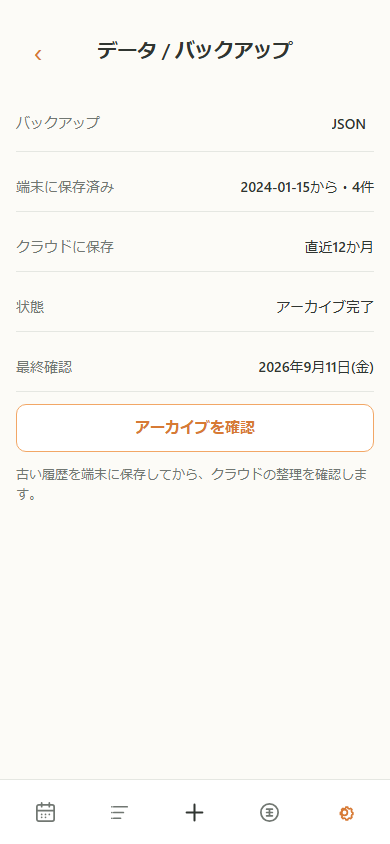
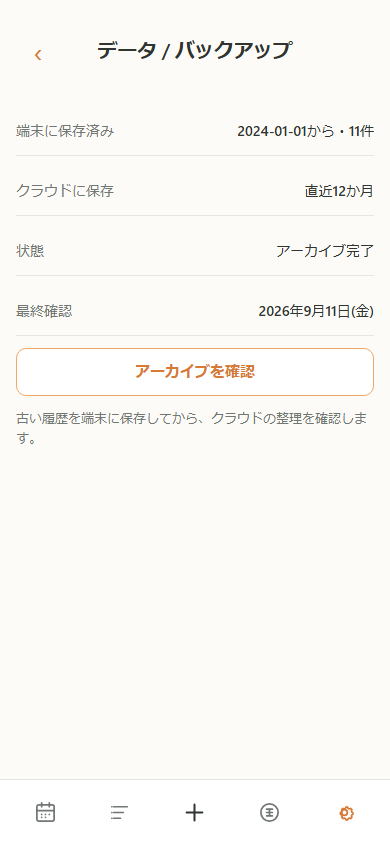
fix: constrain archive projection authority

diff --git a/src/lib/archive-projection.ts b/src/lib/archive-projection.ts
@@ -6,29 +6,54 @@ import type { ArchiveRecord } from "./archive";
 
 const recordsOf = <T>(rows: ArchiveRecord[], type: ArchiveRecord["type"]) => rows.filter((row) => row.type === type).map((row) => row.record as T);
 const dateShift = (value: string, amount: number) => { const date = new Date(`${value}T00:00:00Z`); date.setUTCDate(date.getUTCDate() + amount); return date.toISOString().slice(0, 10); };
+const archiveBatchGroups = (rows: ArchiveRecord[]) => {
+  const groups = new Map<string, { rows: ArchiveRecord[]; retentionBoundary: string }>();
+  for (const row of rows) {
+    if (!row.archiveBatchId || !row.retentionBoundary) continue;
+    const group = groups.get(row.archiveBatchId) ?? { rows: [], retentionBoundary: row.retentionBoundary };
+    group.rows.push(row);
+    groups.set(row.archiveBatchId, group);
+  }
+  return [...groups.values()].sort((left, right) => left.retentionBoundary.localeCompare(right.retentionBoundary));
+};
+const archiveRangeForBatch = (range: DateRange, retentionBoundary: string): DateRange | null => {
+  const endDate = dateShift(retentionBoundary, -1);
+  if (range.startDate > endDate) return null;
+  return { startDate: range.startDate, endDate: range.endDate < endDate ? range.endDate : endDate };
+};
+const eventIdentity = (event: { id: string; occurrenceKey?: string | null; startDate?: string | null; periodStartDate?: string | null }) => `${event.id}:${event.occurrenceKey ?? "single"}:${event.startDate ?? event.periodStartDate ?? ""}`;
+const moneyIdentity = (item: { id: string; occurrenceKey?: string | null; date: string }) => `${item.id}:${item.occurrenceKey ?? item.date}`;
 
 export const archiveEventsForRange = (rows: ArchiveRecord[], userId: string, range: DateRange, weekStartsOn: number): ProjectedEvent[] => {
-  const events = recordsOf<Event>(rows, "event").filter((event) => event.userId === userId && event.active && !event.deletedAt);
-  const rules = new Map(recordsOf<RecurrenceRule>(rows, "recurrence_rule").filter((rule) => rule.userId === userId).map((rule) => [rule.id, rule]));
-  const overrides = recordsOf<EventOccurrenceOverride>(rows, "event_override").filter((override) => override.userId === userId);
-  return projectDefinitions(events.map((event) => ({ event, rule: event.recurrenceRuleId ? (rules.get(event.recurrenceRuleId) ?? null) : null, overrides: overrides.filter((override) => override.eventId === event.id) })), range, weekStartsOn).sort((left, right) => `${left.startDate ?? "9999-12-31"}T${left.startTime ?? left.deadlineTime ?? "00:00"}:${left.id}:${left.occurrenceKey ?? ""}`.localeCompare(`${right.startDate ?? "9999-12-31"}T${right.startTime ?? right.deadlineTime ?? "00:00"}:${right.id}:${right.occurrenceKey ?? ""}`));
+  return archiveBatchGroups(rows).flatMap((batch) => {
+    const batchRange = archiveRangeForBatch(range, batch.retentionBoundary);
+    if (!batchRange) return [];
+    const events = recordsOf<Event>(batch.rows, "event").filter((event) => event.userId === userId && event.active && !event.deletedAt);
+    const rules = new Map(recordsOf<RecurrenceRule>(batch.rows, "recurrence_rule").filter((rule) => rule.userId === userId).map((rule) => [rule.id, rule]));
+    const overrides = recordsOf<EventOccurrenceOverride>(batch.rows, "event_override").filter((override) => override.userId === userId);
+    return projectDefinitions(events.map((event) => ({ event, rule: event.recurrenceRuleId ? (rules.get(event.recurrenceRuleId) ?? null) : null, overrides: overrides.filter((override) => override.eventId === event.id) })), batchRange, weekStartsOn);
+  }).sort((left, right) => `${left.startDate ?? "9999-12-31"}T${left.startTime ?? left.deadlineTime ?? "00:00"}:${left.id}:${left.occurrenceKey ?? ""}`.localeCompare(`${right.startDate ?? "9999-12-31"}T${right.startTime ?? right.deadlineTime ?? "00:00"}:${right.id}:${right.occurrenceKey ?? ""}`));
 };
 
-export const archiveDailyNoteForDate = (rows: ArchiveRecord[], userId: string, date: string): DailyNote | null => recordsOf<DailyNote>(rows, "daily_note").find((note) => note.userId === userId && note.date === date) ?? null;
+export const archiveDailyNoteForDate = (rows: ArchiveRecord[], userId: string, date: string): DailyNote | null => archiveBatchGroups(rows).flatMap((batch) => recordsOf<DailyNote>(batch.rows, "daily_note").filter((note) => note.userId === userId && note.date === date && note.date < batch.retentionBoundary)).at(-1) ?? null;
 
 export const archiveMoneyForRange = (rows: ArchiveRecord[], userId: string, range: DateRange, weekStartsOn: number): MoneyOccurrence[] => {
-  const items = recordsOf<MoneyItem>(rows, "money_item").filter((item) => item.userId === userId && item.active && !item.deletedAt);
-  const rules = new Map(recordsOf<RecurrenceRule>(rows, "recurrence_rule").filter((rule) => rule.userId === userId).map((rule) => [rule.id, rule]));
-  const overrides = recordsOf<MoneyOccurrenceOverride>(rows, "money_override").filter((override) => override.userId === userId);
-  const settlements = recordsOf<MoneyOccurrenceSettlement>(rows, "money_settlement").filter((settlement) => settlement.userId === userId);
-  const categories = recordsOf<MoneyCategory>(rows, "money_category").filter((category) => category.userId === userId);
-  return projectMoneyItems(items.map((item) => ({ item, rule: item.recurrenceRuleId ? (rules.get(item.recurrenceRuleId) ?? null) : null, overrides: overrides.filter((override) => override.moneyItemId === item.id) })), categories, range.startDate, range.endDate, weekStartsOn, overrides, settlements, "9999-12");
+  return archiveBatchGroups(rows).flatMap((batch) => {
+    const batchRange = archiveRangeForBatch(range, batch.retentionBoundary);
+    if (!batchRange) return [];
+    const items = recordsOf<MoneyItem>(batch.rows, "money_item").filter((item) => item.userId === userId && item.active && !item.deletedAt);
+    const rules = new Map(recordsOf<RecurrenceRule>(batch.rows, "recurrence_rule").filter((rule) => rule.userId === userId).map((rule) => [rule.id, rule]));
+    const overrides = recordsOf<MoneyOccurrenceOverride>(batch.rows, "money_override").filter((override) => override.userId === userId);
+    const settlements = recordsOf<MoneyOccurrenceSettlement>(batch.rows, "money_settlement").filter((settlement) => settlement.userId === userId);
+    const categories = recordsOf<MoneyCategory>(batch.rows, "money_category").filter((category) => category.userId === userId);
+    return projectMoneyItems(items.map((item) => ({ item, rule: item.recurrenceRuleId ? (rules.get(item.recurrenceRuleId) ?? null) : null, overrides: overrides.filter((override) => override.moneyItemId === item.id) })), categories, batchRange.startDate, batchRange.endDate, weekStartsOn, overrides, settlements, "9999-12");
+  }).sort((left, right) => `${left.date}:${left.id}:${left.occurrenceKey}`.localeCompare(`${right.date}:${right.id}:${right.occurrenceKey}`));
 };
 
 export const mergeProjectedEvents = (serverEvents: ApiEvent[], archivedEvents: ProjectedEvent[]): ApiEvent[] => {
   const result = new Map<string, ApiEvent>();
-  archivedEvents.forEach((event) => result.set(`${event.occurrenceKey ?? event.id}:${event.startDate ?? event.periodStartDate ?? ""}`, event));
-  serverEvents.forEach((event) => { const key = `${event.occurrenceKey ?? event.id}:${event.startDate ?? event.periodStartDate ?? ""}`; if (!result.has(key)) result.set(key, event); });
+  archivedEvents.forEach((event) => result.set(eventIdentity(event), event));
+  serverEvents.forEach((event) => result.set(eventIdentity(event), event));
   return [...result.values()];
 };
 
@@ -39,23 +64,26 @@ const projectionSummary = (occurrences: MoneyOccurrence[]) => {
 
 export const mergeMoneyProjections = (server: ApiMoneyProjection, archived: MoneyOccurrence[]): ApiMoneyProjection => {
   const byKey = new Map<string, MoneyOccurrence>();
-  archived.forEach((item) => byKey.set(item.occurrenceKey ?? `${item.id}:${item.date}`, item));
-  server.occurrences.forEach((item) => { const key = item.occurrenceKey ?? `${item.id}:${item.date}`; if (!byKey.has(key)) byKey.set(key, item as MoneyOccurrence); });
+  archived.forEach((item) => byKey.set(moneyIdentity(item), item));
+  server.occurrences.forEach((item) => byKey.set(moneyIdentity(item), item as MoneyOccurrence));
   const occurrences = [...byKey.values()].sort((left, right) => `${left.date}:${left.id}:${left.occurrenceKey ?? ""}`.localeCompare(`${right.date}:${right.id}:${right.occurrenceKey ?? ""}`));
   const days = [...new Set(occurrences.map((item) => item.date))].sort().map((date) => ({ date, ...projectionSummary(occurrences.filter((item) => item.date === date)) }));
   return { occurrences: occurrences as ApiMoneyProjection["occurrences"], summary: projectionSummary(occurrences), days };
 };
 
 export const archiveSearchEvents = (rows: ArchiveRecord[], userId: string, query: string, weekStartsOn: number, limit = 50) => {
-  const eventRows = rows.filter((row) => row.type === "event");
-  const dates = eventRows.map((row) => row.recordDate).filter((date): date is string => Boolean(date)).sort();
-  if (dates.length === 0) return [];
-  const range = { startDate: dates[0], endDate: dateShift(dates.at(-1) as string, 1825) };
   const normalized = query.trim().toLocaleLowerCase();
-  return archiveEventsForRange(rows, userId, range, weekStartsOn).flatMap((event) => {
+  const archiveResults = archiveBatchGroups(rows).flatMap((batch) => {
+    const dates = batch.rows.map((row) => row.recordDate).filter((date): date is string => Boolean(date)).sort();
+    if (dates.length === 0) return [];
+    const range = { startDate: dates[0], endDate: dateShift(batch.retentionBoundary, -1) };
+    return archiveEventsForRange(batch.rows, userId, range, weekStartsOn).flatMap((event) => {
     const fields = (["title", "place", "memo"] as const).filter((field) => Boolean(event[field]?.toLocaleLowerCase().includes(normalized)));
     if (fields.length === 0) return [];
     const occurrenceDate = event.timingType === "period" ? event.periodStartDate ?? event.startDate ?? dates[0] : event.startDate ?? dates[0];
     return [{ ...event, source: "archive" as const, eventId: event.id, occurrenceDate, matchContext: { fields, text: fields.find((field) => field !== "title") ? event[fields.find((field) => field !== "title") as "place" | "memo"] ?? undefined : undefined } }];
-  }).sort((left, right) => `${left.occurrenceDate}:${left.id}:${left.occurrenceKey ?? ""}`.localeCompare(`${right.occurrenceDate}:${right.id}:${right.occurrenceKey ?? ""}`)).slice(0, limit);
+    });
+  });
+  const deduped = new Map<string, (typeof archiveResults)[number]>(archiveResults.map((event) => [eventIdentity(event), event]));
+  return [...deduped.values()].sort((left, right) => `${left.occurrenceDate}:${left.id}:${left.occurrenceKey ?? ""}`.localeCompare(`${right.occurrenceDate}:${right.id}:${right.occurrenceKey ?? ""}`)).slice(0, limit);
 };

diff --git a/e2e/m12-local-archive.spec.ts b/e2e/m12-local-archive.spec.ts
@@ -3,6 +3,8 @@ import { expect, test } from "@playwright/test";
 test.use({ viewport: { width: 390, height: 844 } });
 
 const unique = () => `m12-${Date.now()}-${Math.random().toString(36).slice(2)}`;
+const monthKey = (date = new Date()) => date.toISOString().slice(0, 7);
+const nextMonthKey = (month: string) => { const date = new Date(`${month}-01T00:00:00Z`); date.setUTCMonth(date.getUTCMonth() + 1); return date.toISOString().slice(0, 7); };
 
 test("M12 archives old history locally before removing only eligible D1 records", async ({ page }) => {
   const email = `${unique()}@example.com`;
@@ -16,9 +18,21 @@ test("M12 archives old history locally before removing only eligible D1 records"
   const ended = await page.request.post("/api/events", { data: { category: "work", title: "M12 終了系列", timingType: "scheduled", allDay: true, startDate: "2024-02-01", startTime: null, endDate: "2024-02-01", endTime: null, recurrence: { frequency: "monthly", interval: 1, weekdays: null, dayOfMonth: 1, startsOn: "2024-02-01", endsOn: "2024-03-01" }, notifications: [] } });
   expect(ended.ok()).toBeTruthy();
   const endedPayload = await ended.json() as { event: { id: string; recurrenceRuleId: string } };
-  const active = await page.request.post("/api/events", { data: { category: "home", title: "M12 継続家賃", timingType: "scheduled", allDay: true, startDate: "2024-01-01", startTime: null, endDate: "2024-01-01", endTime: null, recurrence: { frequency: "monthly", interval: 1, weekdays: null, dayOfMonth: 1, startsOn: "2024-01-01", endsOn: null }, notifications: [] } });
+  const active = await page.request.post("/api/events", { data: { category: "home", title: "M12 旧週次レビュー", timingType: "scheduled", allDay: false, startDate: "2024-01-01", startTime: "10:00", endDate: "2024-01-01", endTime: "10:00", recurrence: { frequency: "monthly", interval: 1, weekdays: null, dayOfMonth: 1, startsOn: "2024-01-01", endsOn: null }, notifications: [] } });
   expect(active.ok()).toBeTruthy();
   const activePayload = await active.json() as { event: { id: string; recurrenceRuleId: string } };
+  const activeOccurrenceKey = `event:${activePayload.event.id}:2024-01-01T10:00`;
+  const activeOverride = await page.request.patch(`/api/events/${activePayload.event.id}`, { data: { scope: "occurrence", occurrenceKey: activeOccurrenceKey, startTime: "10:00", endTime: "10:00" } });
+  expect(activeOverride.ok()).toBeTruthy();
+  const categories = await page.request.get("/api/money-categories?type=expense");
+  expect(categories.ok()).toBeTruthy();
+  const expenseCategory = (await categories.json() as { categories: Array<{ id: string }> }).categories[0];
+  const activeMoney = await page.request.post("/api/money", { data: { type: "expense", title: "M12 旧家賃", plannedAmount: 70000, categoryId: expenseCategory.id, date: "2024-01-01", memo: null, recurrence: { frequency: "monthly", interval: 1, weekdays: null, dayOfMonth: 1, startsOn: "2024-01-01", endsOn: null } } });
+  expect(activeMoney.ok()).toBeTruthy();
+  const activeMoneyPayload = await activeMoney.json() as { money: { id: string } };
+  const oldMoneyOccurrenceKey = `money:${activeMoneyPayload.money.id}:2024-01-01`;
+  const oldSettlement = await page.request.put(`/api/money/${activeMoneyPayload.money.id}/occurrences/${oldMoneyOccurrenceKey}/actual`, { data: { amount: 65000 } });
+  expect(oldSettlement.ok()).toBeTruthy();
   const note = await page.request.put("/api/daily-notes/2024-01-15", { data: { content: "M12 端末へ退避する日メモ" } });
   expect(note.ok()).toBeTruthy();
 
@@ -27,7 +41,7 @@ test("M12 archives old history locally before removing only eligible D1 records"
   const candidate = await candidates.json() as { archiveBatchId: string; retentionBoundary: string; records: { events: Array<{ id: string }>; dailyNotes: Array<{ date: string }> }; manifest: { records: Array<{ type: string; id: string }> }; checksum: string };
   expect(candidate.retentionBoundary).toMatch(/^\d{4}-\d{2}-\d{2}$/);
   expect(candidate.records.events.map((event) => event.id)).toEqual(expect.arrayContaining([singlePayload.event.id, endedPayload.event.id]));
-  expect(candidate.records.events.map((event) => event.id)).not.toContain(activePayload.event.id);
+  expect(candidate.records.events.map((event) => event.id)).toContain(activePayload.event.id);
   expect(candidate.records.dailyNotes.map((item) => item.date)).toContain("2024-01-15");
   expect(candidate.manifest.records).toEqual(expect.arrayContaining([{ type: "event", id: singlePayload.event.id }, { type: "event", id: endedPayload.event.id }]));
   expect(candidate.manifest.records).not.toContainEqual({ type: "event", id: activePayload.event.id });
@@ -49,10 +63,23 @@ test("M12 archives old history locally before removing only eligible D1 records"
   expect((await page.request.get(`/api/events/${singlePayload.event.id}`)).status()).toBe(404);
   expect((await page.request.get(`/api/events/${endedPayload.event.id}`)).status()).toBe(404);
   expect((await page.request.get(`/api/events/${activePayload.event.id}`)).ok()).toBeTruthy();
+  const updatedEvent = await page.request.patch(`/api/events/${activePayload.event.id}`, { data: { scope: "series", title: "M12 新週次レビュー", startTime: "11:00", endTime: "11:00" } });
+  expect(updatedEvent.ok()).toBeTruthy();
+  const updatedMoney = await page.request.patch(`/api/money/${activeMoneyPayload.money.id}`, { data: { scope: "series", title: "M12 新家賃", plannedAmount: 80000, date: "2024-01-01", memo: null, categoryId: expenseCategory.id, recurrence: { frequency: "monthly", interval: 1, weekdays: null, dayOfMonth: 1, startsOn: "2024-01-01", endsOn: null } } });
+  expect(updatedMoney.ok()).toBeTruthy();
+  const currentMonth = monthKey();
+  const futureMonth = nextMonthKey(currentMonth);
+  for (const month of [currentMonth, futureMonth]) {
+    const calendarResponse = await page.request.get(`/api/calendar?month=${month}`);
+    expect(calendarResponse.ok()).toBeTruthy();
+    const calendar = await calendarResponse.json() as { events: Array<{ id: string; title: string; startTime: string | null }>; money: { occurrences: Array<{ id: string; plannedAmount: number }> } };
+    expect(calendar.events.find((entry) => entry.id === activePayload.event.id)).toMatchObject({ title: "M12 新週次レビュー", startTime: "11:00" });
+    expect(calendar.money.occurrences.find((entry) => entry.id === activeMoneyPayload.money.id)?.plannedAmount).toBe(80000);
+  }
 
   await page.goto("/calendar");
   await page.getByRole("button", { name: "検索" }).click();
-  await page.getByRole("textbox", { name: "予定を検索" }).fill("旧単発");
-  await expect(page.getByRole("button", { name: /M12 旧単発/ })).toBeVisible({ timeout: 15_000 });
+  await page.getByRole("textbox", { name: "予定を検索" }).fill("旧週次レビュー");
+  await expect(page.getByRole("button", { name: /M12 旧週次レビュー/ }).first()).toBeVisible({ timeout: 15_000 });
   await page.screenshot({ path: "artifacts/evidence/m12/archive-search-390x844.png" });
 });

diff --git a/src/lib/archive-projection.test.ts b/src/lib/archive-projection.test.ts
@@ -1,0 +1,62 @@
+import { describe, expect, it } from "vitest";
+import type { Event, MoneyItem, RecurrenceRule } from "../worker/types";
+import type { ArchiveRecord } from "./archive";
+import { archiveEventsForRange, archiveMoneyForRange, archiveSearchEvents, mergeMoneyProjections, mergeProjectedEvents } from "./archive-projection";
+import type { MoneyProjection } from "../api/client";
+
+const userId = "user-1";
+const boundary = "2026-09-01";
+const rule: RecurrenceRule = { id: "rule-1", userId, frequency: "monthly", interval: 1, weekdays: null, dayOfMonth: 1, startsOn: "2026-08-01", endsOn: null, createdAt: "2026-01-01T00:00:00.000Z", updatedAt: "2026-01-01T00:00:00.000Z" };
+const event = (title: string, startTime: string): Event => ({ id: "event-1", userId, category: "work", title, place: null, memo: null, timingType: "scheduled", allDay: false, startDate: "2026-08-01", startTime, endDate: "2026-08-01", endTime: null, periodWindowType: null, periodAnchorDate: null, periodStartDate: null, periodEndDate: null, deadlineTime: null, recurrenceRuleId: rule.id, active: true, deletedAt: null, createdAt: "2026-01-01T00:00:00.000Z", updatedAt: "2026-01-01T00:00:00.000Z" });
+const moneyItem = (plannedAmount: number): MoneyItem => ({ id: "money-1", userId, type: "expense", title: "家賃", categoryId: "category-1", plannedAmount, date: "2026-08-01", time: null, recurrenceRuleId: rule.id, memo: null, active: true, deletedAt: null, createdAt: "2026-01-01T00:00:00.000Z", updatedAt: "2026-01-01T00:00:00.000Z" });
+const rowsFor = (snapshotEvent: Event, snapshotMoney: MoneyItem): ArchiveRecord[] => [
+  { type: "event", id: snapshotEvent.id, userId, record: snapshotEvent, recordDate: snapshotEvent.startDate ?? undefined, archiveBatchId: "batch-1", retentionBoundary: boundary },
+  { type: "recurrence_rule", id: rule.id, userId, record: rule, recordDate: rule.startsOn, archiveBatchId: "batch-1", retentionBoundary: boundary },
+  { type: "money_item", id: snapshotMoney.id, userId, record: snapshotMoney, recordDate: snapshotMoney.date, archiveBatchId: "batch-1", retentionBoundary: boundary },
+  { type: "money_category", id: "category-1", userId, record: { id: "category-1", userId, type: "expense", name: "住居", colorKey: null, sortOrder: 0, active: true, createdAt: "2026-01-01T00:00:00.000Z", updatedAt: "2026-01-01T00:00:00.000Z" }, archiveBatchId: "batch-1", retentionBoundary: boundary },
+  { type: "money_settlement", id: "settlement-1", userId, record: { id: "settlement-1", userId, moneyItemId: "money-1", occurrenceKey: "money:money-1:2026-08-01", status: "actual", amount: 65000, finalizedAt: "2026-08-02T00:00:00.000Z", updatedAt: "2026-08-02T00:00:00.000Z", estimatedAmount: null }, recordDate: "2026-08-01", archiveBatchId: "batch-1", retentionBoundary: boundary }
+];
+
+describe("archive projection authority and range", () => {
+  const rows = rowsFor(event("旧週次レビュー", "10:00"), moneyItem(70000));
+
+  it("clamps active event snapshots before the batch boundary and gives D1 authority on duplicate identity", () => {
+    const archived = archiveEventsForRange(rows, userId, { startDate: "2026-08-01", endDate: "2026-08-31" }, 1);
+    expect(archived).toHaveLength(1);
+    expect(archived[0].title).toBe("旧週次レビュー");
+    expect(archiveEventsForRange(rows, userId, { startDate: "2026-09-01", endDate: "2026-10-31" }, 1)).toHaveLength(0);
+
+    const current = { ...archived[0], title: "新週次レビュー", startTime: "11:00" };
+    const merged = mergeProjectedEvents([current], archived);
+    expect(merged).toHaveLength(1);
+    expect(merged[0].title).toBe("新週次レビュー");
+    expect(merged[0].startTime).toBe("11:00");
+  });
+
+  it("keeps old and current event titles in their respective authority ranges", () => {
+    const archived = archiveEventsForRange(rows, userId, { startDate: "2026-08-01", endDate: "2026-08-31" }, 1);
+    const current = { ...archived[0], title: "新週次レビュー", startDate: "2026-10-01", endDate: "2026-10-01", startTime: "11:00", occurrenceKey: "event:event-1:2026-10-01T11:00" };
+    const merged = mergeProjectedEvents([current], archived);
+    expect(merged.map((item) => item.title)).toEqual(["旧週次レビュー", "新週次レビュー"]);
+  });
+
+  it("does not project an active money snapshot into current or future months", () => {
+    const archived = archiveMoneyForRange(rows, userId, { startDate: "2026-08-01", endDate: "2026-08-31" }, 1);
+    expect(archived).toHaveLength(1);
+    expect(archived[0].effectiveAmount).toBe(65000);
+    expect(archiveMoneyForRange(rows, userId, { startDate: "2026-09-01", endDate: "2026-10-31" }, 1)).toHaveLength(0);
+
+    const current = { ...archived[0], date: "2026-10-01", plannedAmount: 80000, effectiveAmount: 80000, effectivePlannedAmount: 80000, basePlannedAmount: 80000, signedAmount: -80000, occurrenceKey: "money:money-1:2026-10-01" };
+    const server = { occurrences: [current], summary: { expenseForecast: 80000, incomeForecast: 0, remaining: -80000 }, days: [] } as MoneyProjection;
+    const merged = mergeMoneyProjections(server, archived);
+    expect(merged.occurrences.map((item) => item.effectiveAmount)).toEqual([65000, 80000]);
+    expect(merged.occurrences.find((item) => item.date === "2026-10-01")?.plannedAmount).toBe(80000);
+  });
+
+  it("searches only archive-period occurrences and does not generate future results from snapshots", () => {
+    const oldResults = archiveSearchEvents(rows, userId, "旧週次レビュー", 1);
+    expect(oldResults).toHaveLength(1);
+    expect(oldResults[0].occurrenceDate).toBe("2026-08-01");
+    expect(archiveSearchEvents(rows, userId, "旧週次レビュー", 1).every((item) => item.occurrenceDate < boundary)).toBe(true);
+  });
+});

diff --git a/src/lib/archive-storage.ts b/src/lib/archive-storage.ts
@@ -1,6 +1,6 @@
 import { ARCHIVE_DB_NAME, ARCHIVE_SCHEMA_VERSION, archiveChecksum, archiveRecordCount, archiveRecordsToRows, canonicalSerialize, type ArchiveBundle, type ArchiveMetadata, type ArchiveRecord, type ArchiveRecordType } from "./archive";
 
-type StoredRow = ArchiveRecord & { rowKey: string; archiveBatchId: string; ordinal: number };
+type StoredRow = ArchiveRecord & { rowKey: string; archiveBatchId: string; retentionBoundary: string; ordinal: number };
 type StoredBatch = ArchiveMetadata & { id: string };
 type StoredSearchIndex = { id: string; userId: string; archiveBatchId: string; type: ArchiveRecordType; text: string; recordId: string };
 
@@ -63,7 +63,8 @@ export const saveArchiveBundle = async (bundle: ArchiveBundle): Promise<ArchiveM
     db = await openArchiveDatabase();
     const rows = archiveRecordsToRows(bundle.records, bundle.userId);
     const recordCount = archiveRecordCount(bundle.records);
-    if (rows.length !== recordCount || rows.length !== bundle.manifest.records.length) throw new ArchiveStorageError("アーカイブ件数が一致しません。");
+    const rowKeys = new Set(rows.map((row) => `${row.type}:${row.id}`));
+    if (rows.length !== recordCount || bundle.manifest.records.some((entry) => !rowKeys.has(`${entry.type}:${entry.id}`))) throw new ArchiveStorageError("アーカイブ件数またはmanifest対象が一致しません。");
     const recordCountsByType = rows.reduce<Record<string, number>>((counts, row) => { counts[row.type] = (counts[row.type] ?? 0) + 1; return counts; }, {});
     const metadata: ArchiveMetadata = { archiveBatchId: bundle.archiveBatchId, userId: bundle.userId, schemaVersion: bundle.schemaVersion, archivedAt: bundle.generatedAt, retentionBoundary: bundle.retentionBoundary, minDate: rows.map((row) => row.recordDate).filter((date): date is string => Boolean(date)).sort()[0] ?? null, maxDate: rows.map((row) => row.recordDate).filter((date): date is string => Boolean(date)).sort().at(-1) ?? null, recordCount, recordCountsByType, checksum: bundle.checksum, status: "verified" };
     const transaction = db.transaction(["archiveBatches", "archiveRecords", "archivedSearchIndex"], "readwrite");
@@ -76,7 +77,7 @@ export const saveArchiveBundle = async (bundle: ArchiveBundle): Promise<ArchiveM
     await deleteByIndex(indexStore, "batchId", bundle.archiveBatchId);
     batches.put({ ...metadata, id: bundle.archiveBatchId });
     rows.forEach((row, ordinal) => {
-      const stored: StoredRow = { ...row, rowKey: `${bundle.archiveBatchId}:${row.type}:${row.id}`, archiveBatchId: bundle.archiveBatchId, ordinal };
+      const stored: StoredRow = { ...row, rowKey: `${bundle.archiveBatchId}:${row.type}:${row.id}`, archiveBatchId: bundle.archiveBatchId, retentionBoundary: bundle.retentionBoundary, ordinal };
       recordsStore.put(stored);
       if (row.type === "event" || row.type === "daily_note" || row.type === "money_item") indexStore.put({ id: stored.rowKey, userId: bundle.userId, archiveBatchId: bundle.archiveBatchId, type: row.type, recordId: row.id, text: searchText(row.record) } satisfies StoredSearchIndex);
     });
@@ -84,7 +85,7 @@ export const saveArchiveBundle = async (bundle: ArchiveBundle): Promise<ArchiveM
     const verified = await readArchiveBatch(bundle.userId, bundle.archiveBatchId);
     if (!verified || verified.rows.length !== recordCount) throw new ArchiveStorageError("IndexedDB保存後の件数確認に失敗しました。");
     const expectedRows = rows.map((row, ordinal) => ({ ...row, ordinal }));
-    const actualRows = verified.rows.map((row) => { const { rowKey, archiveBatchId, ...record } = row; void rowKey; void archiveBatchId; return { ...record, ordinal: row.ordinal }; });
+    const actualRows = verified.rows.map((row) => { const { rowKey, archiveBatchId, retentionBoundary, ...record } = row; void rowKey; void archiveBatchId; void retentionBoundary; return { ...record, ordinal: row.ordinal }; });
     if (canonicalSerialize(expectedRows) !== canonicalSerialize(actualRows)) throw new ArchiveStorageError("IndexedDB保存後のIDまたは内容確認に失敗しました。");
     if (await archiveChecksum(bundle) !== bundle.checksum) throw new ArchiveStorageError("アーカイブchecksumの検証に失敗しました。");
     return verified.metadata;

diff --git a/src/App.tsx b/src/App.tsx
@@ -766,7 +766,7 @@ function ArchiveSettings({ metadata, state, candidate, error, onCheck }: { metad
 }
 function SettingsDetailPage({ detail, user, settings, archiveMetadata, archiveState, archiveCandidate, archiveError, onArchiveCheck, onBack, onLogout, onSettingsChange }: { detail: SettingsDetail; user: AuthUser; settings: UserSettings | null; archiveMetadata: ArchiveMetadata[]; archiveState: ArchiveUiState; archiveCandidate: ArchiveCandidateResponse | null; archiveError: string; onArchiveCheck: () => void; onBack: () => void; onLogout: () => void; onSettingsChange: (settings: UserSettings) => void }) {
   const titles: Record<SettingsDetail, string> = { account: "アカウント", notifications: "通知", calendar: "カレンダー", money: "お金", data: "データ / バックアップ" };
-  const body = detail === "account" ? <><FormRow label="メール" summary={user.email} /><Button onClick={onLogout} variant="secondary">ログアウト</Button></> : detail === "notifications" ? <NotificationSettingsSection onSettingsChange={onSettingsChange} settings={settings} /> : detail === "calendar" ? <><FormRow label="タイムゾーン" summary={settings?.timezone ?? "Asia/Tokyo"} /><FormRow label="週の開始" summary={settings ? weekDayLabel(settings.weekStartsOn) : "月曜日"} /></> : detail === "money" ? <MoneyCategorySettings /> : <><FormRow label="バックアップ" summary="JSON" /><ArchiveSettings candidate={archiveCandidate} error={archiveError} metadata={archiveMetadata} onCheck={onArchiveCheck} state={archiveState} /></>;
+  const body = detail === "account" ? <><FormRow label="メール" summary={user.email} /><Button onClick={onLogout} variant="secondary">ログアウト</Button></> : detail === "notifications" ? <NotificationSettingsSection onSettingsChange={onSettingsChange} settings={settings} /> : detail === "calendar" ? <><FormRow label="タイムゾーン" summary={settings?.timezone ?? "Asia/Tokyo"} /><FormRow label="週の開始" summary={settings ? weekDayLabel(settings.weekStartsOn) : "月曜日"} /></> : detail === "money" ? <MoneyCategorySettings /> : <ArchiveSettings candidate={archiveCandidate} error={archiveError} metadata={archiveMetadata} onCheck={onArchiveCheck} state={archiveState} />;
   return <main className="screen-page settings-page"><header className="screen-header"><button aria-label="設定へ戻る" className="back-button" onClick={onBack} type="button">‹</button><h1>{titles[detail]}</h1><span className="header-spacer" /></header><section className="settings-detail-list">{body}</section></main>;
 }
 function SettingsShell({ user, settings, detail, archiveMetadata, archiveState, archiveCandidate, archiveError, onArchiveCheck, onOpenDetail, onBack, onLogout, onSettingsChange }: { user: AuthUser; settings: UserSettings | null; detail: SettingsDetail | null; archiveMetadata: ArchiveMetadata[]; archiveState: ArchiveUiState; archiveCandidate: ArchiveCandidateResponse | null; archiveError: string; onArchiveCheck: () => void; onOpenDetail: (detail: SettingsDetail) => void; onBack: () => void; onLogout: () => void; onSettingsChange: (settings: UserSettings) => void }) { if (detail) return <SettingsDetailPage archiveCandidate={archiveCandidate} archiveError={archiveError} archiveMetadata={archiveMetadata} archiveState={archiveState} detail={detail} onArchiveCheck={onArchiveCheck} onBack={onBack} onLogout={onLogout} onSettingsChange={onSettingsChange} settings={settings} user={user} />; return <main className="screen-page settings-page"><header className="screen-header"><h1>設定</h1></header><section className="settings-root-list"><FormRow ariaLabel="アカウントを開く" label="アカウント" onClick={() => onOpenDetail("account")} /><FormRow ariaLabel="通知を開く" label="通知" onClick={() => onOpenDetail("notifications")} /><FormRow ariaLabel="カレンダーを開く" label="カレンダー" onClick={() => onOpenDetail("calendar")} /><FormRow ariaLabel="お金を開く" label="お金" onClick={() => onOpenDetail("money")} /><FormRow ariaLabel="データとバックアップを開く" label="データ / バックアップ" onClick={() => onOpenDetail("data")} /></section></main>; }

diff --git a/src/lib/archive.ts b/src/lib/archive.ts
@@ -5,7 +5,7 @@ export const ARCHIVE_SCHEMA_VERSION = 1;
 export const ARCHIVE_MANIFEST_VERSION = 1;
 
 export type ArchiveRecordType = "event" | "recurrence_rule" | "event_override" | "event_notification" | "daily_note" | "money_item" | "money_override" | "money_settlement" | "money_category";
-export type ArchiveRecord = { type: ArchiveRecordType; id: string; userId: string; record: unknown; recordDate?: string; updatedAt?: string };
+export type ArchiveRecord = { type: ArchiveRecordType; id: string; userId: string; record: unknown; recordDate?: string; updatedAt?: string; archiveBatchId?: string; retentionBoundary?: string };
 export type ArchiveRecords = {
   events: Event[];
   recurrenceRules: RecurrenceRule[];

diff --git a/docs/BACKUP_AND_RETENTION.md b/docs/BACKUP_AND_RETENTION.md
@@ -290,3 +290,9 @@ serverはschemaVersion、generatedAt、userId、retentionBoundary、archiveBatch
 単発 / period Eventは実効終了日、終了済みrecurrence系列は`endsOn`、DailyNoteは日付、Moneyは単発・終了済み系列の定義と古いoverride / actual / estimated_actualを対象にする。継続中Event / RecurrenceRule / MoneyItem / Money recurrenceはD1に残し、古いoverride / settlementだけを対象にできる。将来へ移動したoverrideは残す。
 
 Calendar / Daily / Money / Searchはserver projectionとIndexedDB snapshotをstable occurrence identityでmergeし、archive済み履歴を通常画面から消さない。
+
+### M12 authority / projection correction
+
+Archive recordは`archiveBatchId`と`retentionBoundary`を保持する。local projectionは各batchについて`date < retentionBoundary`へrequest rangeをclampし、継続中の親snapshotからboundary日以降のoccurrenceを生成しない。D1 projectionとIndexedDB projectionが同じstable occurrence identityを返した場合は、Calendar Event / MoneyともD1を最終authorityとする。Searchもarchive batchの保持期間だけを対象とし、親snapshotを将来5年へ投影しない。
+
+SettingsのJSON Backup rowはM13まで表示しない。M12で表示するbackup関連UIはLocal Archiveの状態と手動確認導線だけである。

diff --git a/docs/DATA_MODEL.md b/docs/DATA_MODEL.md
@@ -633,10 +633,12 @@ M12のIndexedDBは `lifehub-archive`、schemaVersion `1` とする。
 ```text
 archiveBatches: id, userId, schemaVersion, archivedAt, retentionBoundary,
   minDate, maxDate, recordCount, recordCountsByType, checksum, status, confirmedAt?
-archiveRecords: rowKey, archiveBatchId, type, id, userId, recordDate?, updatedAt?, record
+archiveRecords: rowKey, archiveBatchId, retentionBoundary, type, id, userId, recordDate?, updatedAt?, record
 archivedSearchIndex: id, archiveBatchId, userId, type, recordId, text
 ```
 
 ArchiveRecordは表示再構築用snapshotをbatch内に保持する。全storeはuserIdでscopeし、batch保存はtransaction、putはidempotentとする。D1の `archive_batches` はchecksum、manifest、recordCount、retentionBoundary、candidate / confirmed statusだけを保持し、archive内容そのものを複製しない。
 
 M12ではJSON export / import、migration_locked、機種変更flowは持たない。
+
+Projection authority: `ArchiveRecord.archiveBatchId` / `retentionBoundary`でbatchを識別し、local projectionはboundary未満だけに制限する。D1とlocalのstable occurrence identityが重複する場合はD1を採用する。親snapshotは過去表示用であり、current / future occurrenceの第二定義ソースではない。

diff --git a/docs/DESIGN.md b/docs/DESIGN.md
@@ -509,3 +509,5 @@ HouseToDo固有のTask / Shopping / Household / completion UIはLifeHubへ持ち
 Settings > データ / バックアップ内のArchiveは、管理ダッシュボードや削除確認画面にしない。flat list、divider、spacing、既存FormRow/Button grammarを使い、端末保存件数・クラウド保持範囲・状態・最終確認を短く表示する。
 
 状態は「未確認 / 候補あり / 保存中 / 確認待ち / アーカイブ完了 / 確認できませんでした」とし、主操作は「アーカイブを確認」とする。「削除」を主ラベルにせず、IndexedDB保存と検証が先に完了する安心感を伝える。390×844でempty、candidate、saving、complete、confirm pending/error、archived rangeを確認する。大きなカード、shadow、gradient、KPI dashboard、常設の英語装飾は追加しない。
+
+JSON Backup rowはM13のJSON export実装まで表示しない。M12のSettings data detailはLocal Archive機能だけを表示する。

diff --git a/docs/API_SPEC.md b/docs/API_SPEC.md
@@ -456,3 +456,5 @@ POST /api/archive/confirm
 server側deleteはmanifestに列挙したevent / override / notification / daily_note / money item / override / settlement / 不要なrecurrence ruleだけをatomicに処理する。active Event、active MoneyItem、未来occurrence生成に必要なRecurrenceRule、継続中Money recurrenceは削除しない。clientがIDだけを送ってもmanifest外は削除しない。
 
 保存処理の順序はcandidate取得、IndexedDB transaction、read-back、ID / 件数 / canonical checksum検証、local metadata verified、confirm、server delete、local confirmed更新。JSON migration APIはM13の対象である。
+
+Archive dataはclient側でbatch boundaryをprojectionへ渡す。`date < retentionBoundary`がlocal authority範囲であり、boundary日以降はD1がauthorityとなる。同一stable occurrence identityのmergeではD1 resultを優先する。

diff --git a/.ai/TASKS.md b/.ai/TASKS.md
@@ -29,6 +29,14 @@
 - Settingsはdashboard化せず、怖いDELETE表現を主操作にしない。390×844で状態別Evidenceを残す
 - stagingのみを操作し、production/default・HouseToDo・server Cron delete・auto-mergeを行っていない
 
+## PR #14 review correction
+
+- [x] ArchiveRecordへbatch boundaryを保持し、local Event / Money / Search projectionを`date < retentionBoundary`へ制限
+- [x] 同一stable occurrence identityはserver / D1を最終authorityとしてmerge
+- [x] active親snapshotのcurrent / future漏出、old/current title、Money planned amount、Search 5年projectionの回帰testを追加
+- [x] 未実装JSON Backup rowをSettingsから除去し、Evidenceを更新
+- [ ] staging再deploy / staging E2E：Cloudflare API 7403再発のため停止。再発時に同じtarget確認から再開する
+
 ---
 
 # Milestone 11 Tasks
